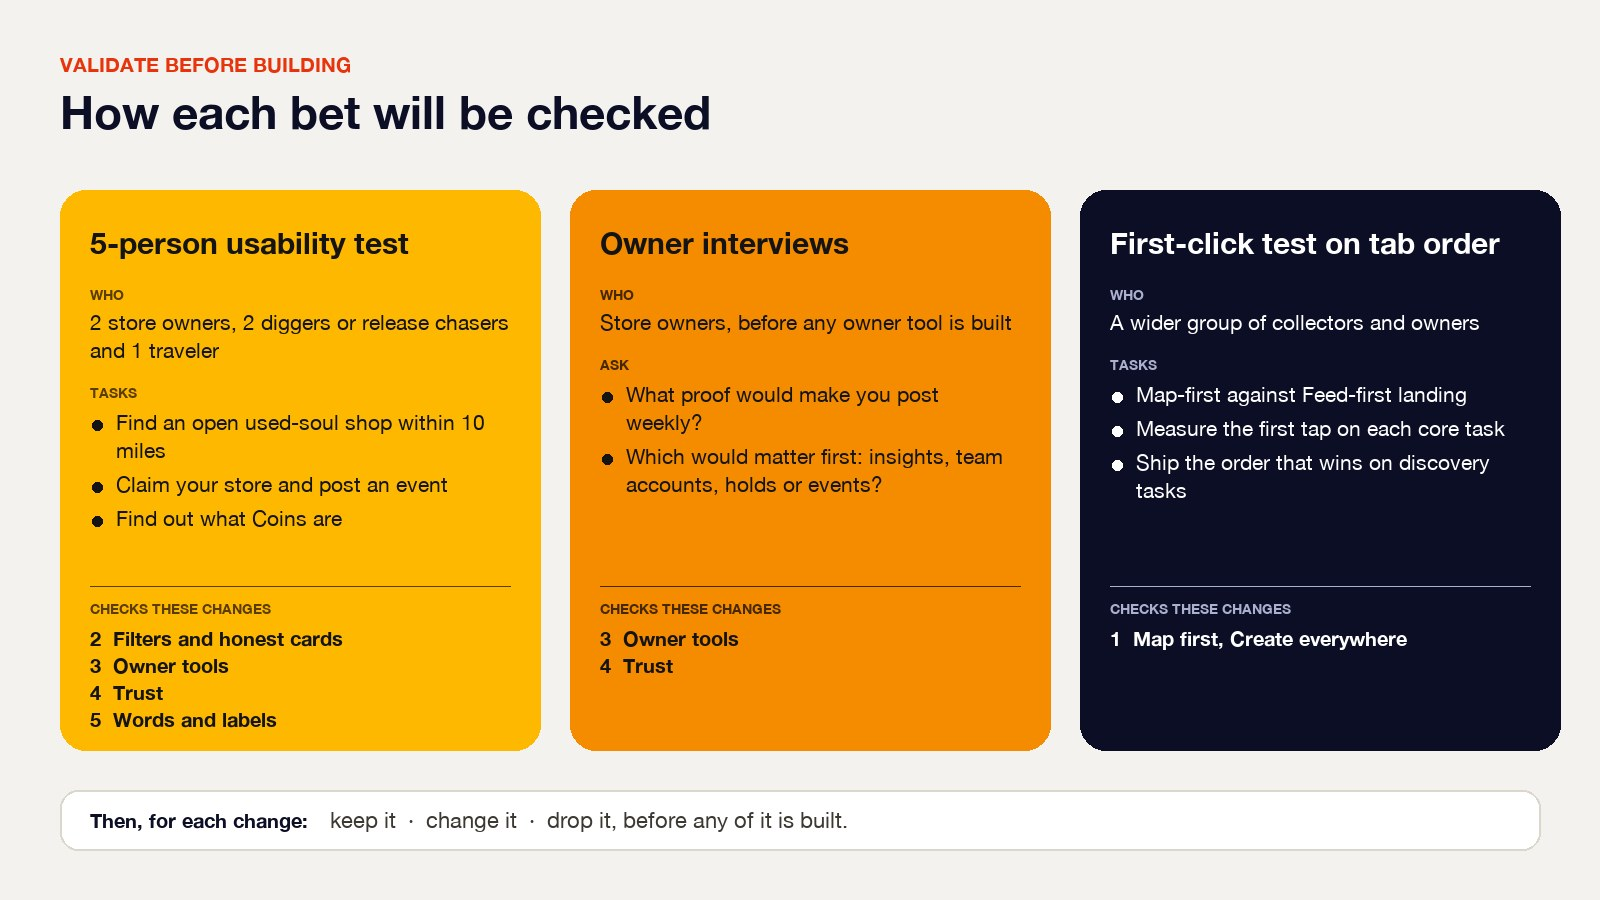
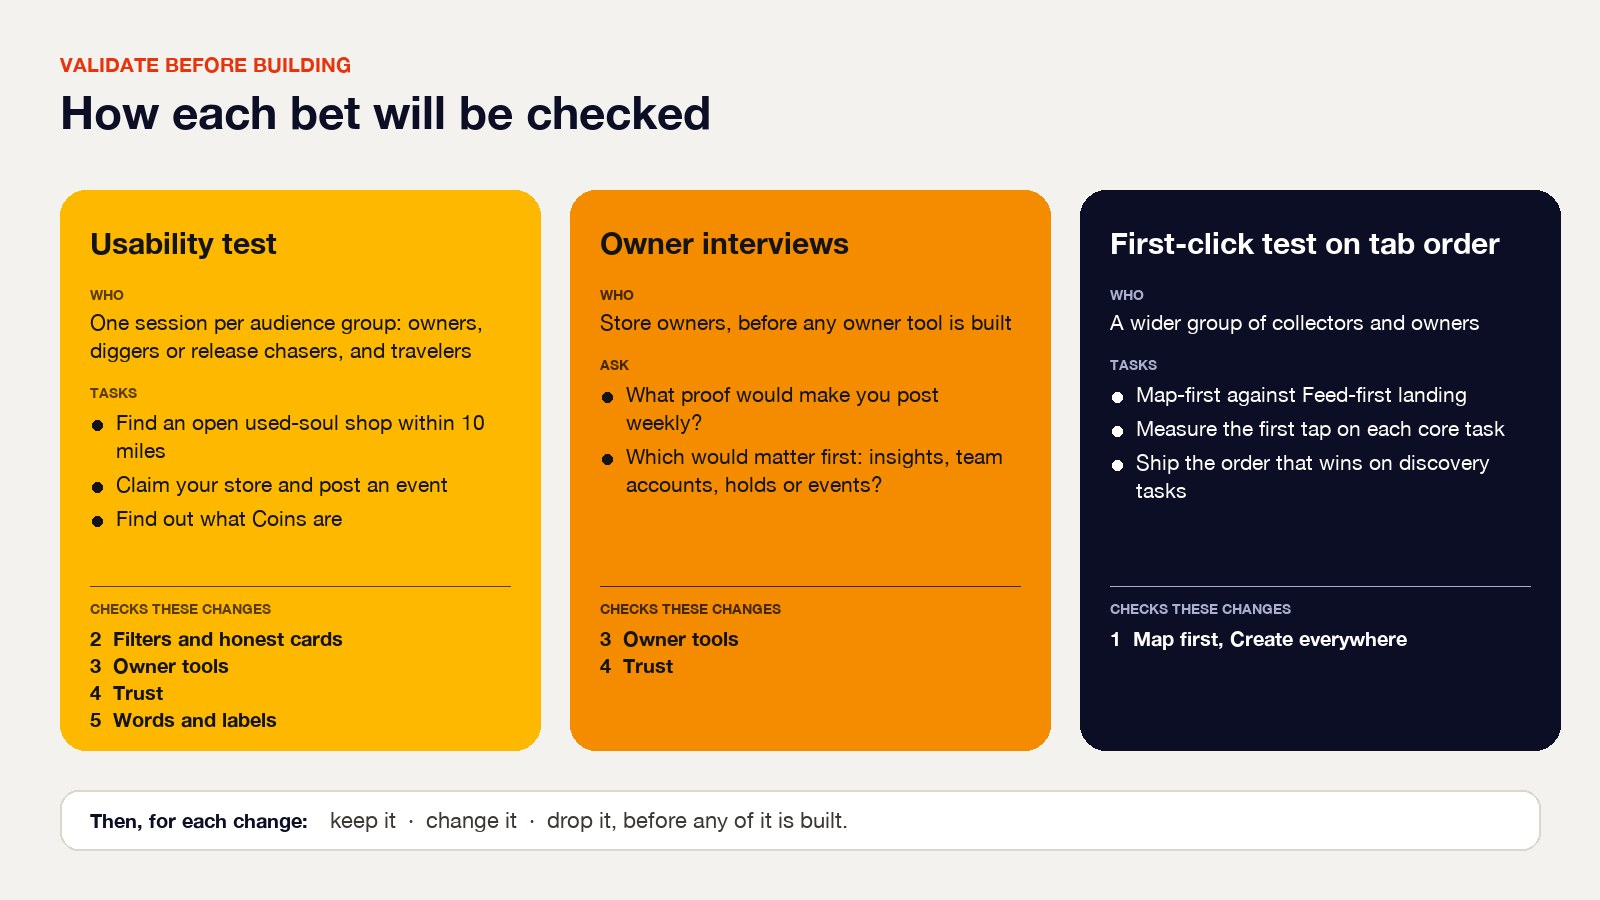
VinylMapper: refer to audience groups instead of individual people

Changed region(s): [[0.0625, 0.3422, 0.3125, 0.4044], [0.0625, 0.2489, 0.25, 0.3111]]

diff --git a/js/projects-data.js b/js/projects-data.js
@@ -628,28 +628,28 @@ const PROJECTS = [
     "tools": [
       "Figma"
     ],
-    "excerpt": "A redesign of a social app for record collectors, driven by five interviews that turned five verdicts into a ranked list of changes.",
+    "excerpt": "A redesign of a social app for record collectors, driven by research with five audience groups that turned five verdicts into a ranked list of changes.",
     "showcase": "assets/images/vinylmapper_case_cover.png?v=2",
     "cover": "assets/images/vinylmapper-header.jpg?v=2",
     "gallery": [],
     "caseStudy": {
-      "outcome": "Turning five interviews into a clearer, more useful VinylMapper.",
+      "outcome": "Turning feedback from five audience groups into a clearer, more useful VinylMapper.",
       "summary": {
-        "problem": "VinylMapper is a social app where record collectors find stores, follow them, review them and share what they find. Its prototype looked good, but it had not picked a main job. I interviewed five people on the original design, ranked the findings and redesigned the navigation and the product around them.",
+        "problem": "VinylMapper is a social app where record collectors find stores, follow them, review them and share what they find. Its prototype looked good, but it had not picked a main job. I researched five audience groups on the original design, ranked the findings and redesigned the navigation and the product around them.",
         "role": "UX/UI designer",
-        "scope": "Interviews, navigation, interface and prioritised changes · 2025–2026",
+        "scope": "Group research, navigation, interface and prioritised changes · 2025–2026",
         "team": "Agency product team",
         "duration": "2025–2026",
         "result": {
           "value": "2 No · 2 Maybe · 1 Yes",
-          "label": "the five interviewees’ verdicts on the original, and the brief for what changed"
+          "label": "the five groups’ verdicts on the original, and the brief for what changed"
         }
       },
       "problem": {
         "heading": "A good-looking app that had not picked a main job",
         "text": [
           "VinylMapper lets collectors find record stores on a map, follow them, review them, check in and share what they find, and lets store owners claim and manage their listing. The first version had well over a hundred screens and states, and a navigation that had grown screen by screen: five equal tabs, three icon-only tab sets and a More menu with eleven tiles.",
-          "To see how it held up, I interviewed five people from its audiences while they walked through the original prototype: two store owners, a crate digger, a traveling collector and a release chaser. Only one of the five would have used it as it was. The others said Maybe or No, for reasons that pointed to the same few problems.",
+          "To see how it held up, I researched five audience groups on the original prototype: veteran store owners, newer store owners, crate diggers, traveling collectors and release chasers, each represented by one interview. Only one of the five groups would have used it as it was. The others said Maybe or No, for reasons that pointed to the same few problems.",
           "The goal became to act on those problems in order of impact: pick a front door, use the data the app already collects, give owners a reason to stay, earn their trust and stop making people learn the app by tapping."
         ],
         "image": {
@@ -661,12 +661,12 @@ const PROJECTS = [
         "text": "I worked on this at the agency that builds VinylMapper. I ran the research round, turned it into a ranked list of changes and redesigned the product around it, from the navigation to the owner tools.",
         "scope": [
           {
-            "label": "Interviews",
-            "text": "Five people, covering owners and collectors, each walked through the original prototype."
+            "label": "Group research",
+            "text": "Five audience groups, covering owners and collectors, each represented by one interview on the original prototype."
           },
           {
             "label": "Findings and priorities",
-            "text": "Seven findings, each traced to who raised it and ranked from P0 to P2."
+            "text": "Seven findings, each traced to the group that raised it and ranked from P0 to P2."
           },
           {
             "label": "Navigation",
@@ -682,16 +682,16 @@ const PROJECTS = [
           },
           {
             "label": "Validation plan",
-            "text": "A 5-user usability test, owner interviews and a first-click test, planned before building."
+            "text": "A usability test across the five groups, owner interviews and a first-click test, planned before building."
           }
         ]
       },
       "decisions": {
-        "heading": "Six changes, each traced to what people said",
+        "heading": "Six changes, each traced to what the groups said",
         "items": [
           {
             "title": "Make the map the front door, and keep Create one tap away",
-            "why": "The collectors came for Find and the owners came to post. Meanwhile the most useful content, guides, collectables and claiming a store, sat in More. The bar is now Map, Feed, Create, Messages and Profile: the map opens after login, Create works from any screen, city guides appear on the map for whatever city you browse, and More is gone, replaced by Settings behind the profile gear.",
+            "why": "Collector groups came for Find and owner groups came to post. Meanwhile the most useful content, guides, collectables and claiming a store, sat in More. The bar is now Map, Feed, Create, Messages and Profile: the map opens after login, Create works from any screen, city guides appear on the map for whatever city you browse, and More is gone, replaced by Settings behind the profile gear.",
             "chosen": "b",
             "a": {
               "label": "Social Home as the front door",
@@ -705,7 +705,7 @@ const PROJECTS = [
           },
           {
             "title": "Turn the data we already collect into filters",
-            "why": "Stores already fill in genres, formats, buy, sell or trade and a used-to-new mix, but Find only offered a name and a distance. The crate digger’s first reaction was that every store on the map was rated 5.0, which told nothing about which shop was worth the drive. Find now filters by open now, genre, format, buy-sell-trade and used or new, sorts by distance, rating, Selection or Price, and shows every rating with its review count, so 5.0 (2) reads honestly.",
+            "why": "Stores already fill in genres, formats, buy, sell or trade and a used-to-new mix, but Find only offered a name and a distance. Crate diggers’ first reaction was that every store on the map was rated 5.0, which told them nothing about which shop was worth the drive. Find now filters by open now, genre, format, buy-sell-trade and used or new, sorts by distance, rating, Selection or Price, and shows every rating with its review count, so 5.0 (2) reads honestly.",
             "chosen": "b",
             "a": {
               "label": "A name search and a distance",
@@ -719,7 +719,7 @@ const PROJECTS = [
           },
           {
             "title": "Give owners control, proof and tools",
-            "why": "The veteran owner could not reply to a review, saw no numbers on what the app did for the shop and could not even find Store Manager, hidden behind a small icon in the top bar. The newer shop had no events, no way to hold a record and no team access. Owners now switch stores from the top of Profile, see views, followers, direction and call taps and check-ins, invite a team with roles, post New arrivals, Events and Announcements, and reply publicly to reviews.",
+            "why": "Veteran owners could not reply to a review, saw no numbers on what the app did for the shop and could not even find Store Manager, hidden behind a small icon in the top bar. Newer shops had no events, no way to hold a record and no team access. Owners now switch stores from the top of Profile, see views, followers, direction and call taps and check-ins, invite a team with roles, post New arrivals, Events and Announcements, and reply publicly to reviews.",
             "chosen": "b",
             "a": {
               "label": "Edit Store and Store Profile",
@@ -727,13 +727,13 @@ const PROJECTS = [
             },
             "b": {
               "label": "A switcher, insights and a team",
-              "note": "Control and proof for the people who feed the app.",
+              "note": "Control and proof for the stores that feed the app.",
               "image": "assets/images/vk-decision3.jpg"
             }
           },
           {
             "title": "Earn trust before asking for it",
-            "why": "The veteran owner read a prefilled unclaimed page with a “spread the word” banner as Yelp’s playbook, and wanted to know who owns the platform that ranks the shop. The claim screen now says who runs the app and links to how ratings work, the unclaimed line speaks to owners in a neutral tone, only people who checked in can review, and collectables reward quality, such as a review with a photo, instead of review count.",
+            "why": "Veteran owners read a prefilled unclaimed page with a “spread the word” banner as Yelp’s playbook, and wanted to know who owns the platform that ranks the shop. The claim screen now says who runs the app and links to how ratings work, the unclaimed line speaks to owners in a neutral tone, only visitors who checked in can review, and collectables reward quality, such as a review with a photo, instead of review count.",
             "chosen": "b",
             "a": {
               "label": "A banner aimed at customers",
@@ -747,7 +747,7 @@ const PROJECTS = [
           },
           {
             "title": "Say it in vinyl, and say what things are",
-            "why": "A repress is a real reissue in vinyl, so “Repress this post” confused the crate digger: it is now Share, with the notification copy to match. The traveling collector tapped through six unlabeled tabs to learn which one was Vault and which was Discogs, and asked what the 6,280 coins were for. Tabs are now labelled and Discogs stays hidden until connected, Coins has an explainer sheet, and distances follow the locale.",
+            "why": "A repress is a real reissue in vinyl, so “Repress this post” confused crate diggers: it is now Share, with the notification copy to match. Traveling collectors tapped through six unlabeled tabs to learn which one was Vault and which was Discogs, and asked what the 6,280 coins were for. Tabs are now labelled and Discogs stays hidden until connected, Coins has an explainer sheet, and distances follow the locale.",
             "chosen": "b",
             "a": {
               "label": "Icons without labels, unexplained terms",
@@ -761,7 +761,7 @@ const PROJECTS = [
           },
           {
             "title": "Make Discogs and records useful",
-            "why": "For the release chaser, Discogs was decoration: the app displayed a collection he already keeps elsewhere, and the wantlist was used nowhere. The map now highlights stores that match his wantlist, search finds records across store posts, a releases layer shows Record Store Day and new pressings, and favorite artists fill in from Discogs. Group chats grow from 4 to 12 people for record clubs.",
+            "why": "For release chasers, Discogs was decoration: the app displayed a collection they already keep elsewhere, and the wantlist was used nowhere. The map now highlights stores that match the wantlist, search finds records across store posts, a releases layer shows Record Store Day and new pressings, and favorite artists fill in from Discogs. Group chats grow from 4 to 12 members for record clubs.",
             "chosen": "b",
             "a": {
               "label": "A Discogs grid you already have",
@@ -779,16 +779,16 @@ const PROJECTS = [
         "heading": "From verdicts to a ranked set of changes",
         "items": [
           {
-            "caption": "1. Five interviews, one list of findings",
-            "problem": "The prototype looked good, but nobody had checked whether it worked for the people it was for.",
-            "solution": "Interview five people as they walk it, then trace every finding to who raised it and rank it.",
-            "text": "I interviewed five people from the app’s audiences: the owner of a veteran shop, the owner of a newer shop with a bar, a crate digger and DJ, a collector who travels, and a release chaser with a collection on Discogs. Each one walked through the original prototype and gave a verdict. Seven findings came out of it, from having no main job to small details like mixed units. I ranked them from P0 to P2, and every change in the redesign points back to one of them.",
+            "caption": "1. Five audience groups, one list of findings",
+            "problem": "The prototype looked good, but nobody had checked whether it worked for the groups it was for.",
+            "solution": "Research five audience groups on the prototype, then trace every finding to the group that raised it and rank it.",
+            "text": "I researched five audience groups: veteran store owners, newer store owners with a bar, crate diggers and DJs, collectors who travel, and release chasers with a collection on Discogs. Each group was represented by one interview on the original prototype and gave a verdict. Seven findings came out of it, from having no main job to small details like mixed units. I ranked them from P0 to P2, and every change in the redesign points back to one of them.",
             "images": [
               {
-                "src": "assets/images/vk-panel.jpg?v=3"
+                "src": "assets/images/vk-panel.jpg?v=4"
               },
               {
-                "src": "assets/images/vk-findings.jpg?v=2"
+                "src": "assets/images/vk-findings.jpg?v=3"
               }
             ]
           },
@@ -830,7 +830,7 @@ const PROJECTS = [
             "caption": "4. P2: records, community and first run",
             "problem": "The app was about places, not records, and the network and the first run did not fit either audience.",
             "solution": "A records layer from Discogs, one relationship model and a first run for collectors and owners.",
-            "text": "Wantlist matches turn the map’s pins gold, search finds records in store posts and a releases layer shows Record Store Day and new pressings, with a Hold for me button on New arrivals. Follow becomes the default relationship for collectors and stores, with the basics public and the collection private. Group chats grow to 12 people with a Record Club, and the map has a Spanish version with kilometres. The first run is one welcome you can skip to browse the map, a short setup for collectors and a checklist for owners that ends in their first post.",
+            "text": "Wantlist matches turn the map’s pins gold, search finds records in store posts and a releases layer shows Record Store Day and new pressings, with a Hold for me button on New arrivals. Follow becomes the default relationship for collectors and stores, with the basics public and the collection private. Group chats grow to 12 members with a Record Club, and the map has a Spanish version with kilometres. The first run is one welcome you can skip to browse the map, a short setup for collectors and a checklist for owners that ends in their first post.",
             "images": [
               {
                 "src": "assets/images/vk-s-records.jpg"
@@ -845,12 +845,12 @@ const PROJECTS = [
           },
           {
             "caption": "5. Validate before building",
-            "problem": "These changes rest on five interviews, a small sample, so they need a wider check before they are built.",
-            "solution": "Plan a 5-user usability test, owner interviews and a first-click test on tab order.",
-            "text": "The redesign is a set of bets, and I wrote down how to check them. A usability test with five people, two store owners, two diggers or release chasers and one traveler, on tasks like finding an open used-soul shop within 10 miles, claiming a store and posting an event. Owner interviews before any owner tool is built, asking what proof would make them post weekly. And a first-click test comparing a Map-first with a Feed-first landing, to ship the order that wins on discovery tasks.",
+            "problem": "These changes rest on five groups, each represented by one interview, so they need a wider check before they are built.",
+            "solution": "Plan a usability test across the five groups, owner interviews and a first-click test on tab order.",
+            "text": "The redesign is a set of bets, and I wrote down how to check them. A usability test across the five groups, covering owners, diggers or release chasers and travelers, on tasks like finding an open used-soul shop within 10 miles, claiming a store and posting an event. Owner interviews before any owner tool is built, asking what proof would make them post weekly. And a first-click test comparing a Map-first with a Feed-first landing, to ship the order that wins on discovery tasks.",
             "images": [
               {
-                "src": "assets/images/vk-validation.jpg?v=3"
+                "src": "assets/images/vk-validation.jpg?v=4"
               }
             ]
           }
@@ -861,7 +861,7 @@ const PROJECTS = [
         "items": [
           {
             "value": "7 findings",
-            "label": "Ranked from P0 to P2 and traced to the person who raised each one."
+            "label": "Ranked from P0 to P2 and traced to the group that raised each one."
           },
           {
             "value": "40 screens",
@@ -869,10 +869,10 @@ const PROJECTS = [
           },
           {
             "value": "3 tests",
-            "label": "Planned before building: a 5-user usability test, owner interviews and a first-click test on tab order."
+            "label": "Planned before building: a usability test across the five groups, owner interviews and a first-click test on tab order."
           }
         ],
-        "note": "Five interviews are a small, qualitative sample, so the verdicts and findings are directional until the validation plan is run."
+        "note": "Each of the five groups was represented by one interview, a small qualitative sample, so the verdicts and findings are directional until the validation plan is run."
       },
       "learnings": {
         "heading": "Pick a front door, then earn the rest",

diff --git a/index.html b/index.html
@@ -14,10 +14,10 @@
 <link rel="preconnect" href="https://fonts.gstatic.com" crossorigin>
 <link href="https://fonts.googleapis.com/css2?family=Inter:wght@400;500;600;700;800&display=swap" rel="stylesheet">
 
-<link rel="stylesheet" href="css/style.css?v=20261168">
-<link rel="stylesheet" href="css/home.css?v=20261168">
-<link rel="stylesheet" href="css/hero-lab.css?v=20261168">
-<script src="js/page-wipe.js?v=20261168"></script>
+<link rel="stylesheet" href="css/style.css?v=20261169">
+<link rel="stylesheet" href="css/home.css?v=20261169">
+<link rel="stylesheet" href="css/hero-lab.css?v=20261169">
+<script src="js/page-wipe.js?v=20261169"></script>
 </head>
 <body data-page="work">
 
@@ -133,15 +133,15 @@
 <!-- InertiaPlugin was only used by the dot-grid background below; re-enable
      it alongside the dot-grid script tag if that background comes back. -->
 <!-- <script src="https://cdn.jsdelivr.net/npm/gsap@3.13.0/dist/InertiaPlugin.min.js"></script> -->
-<script src="js/main.js?v=20261168"></script>
-<script src="js/cursor.js?v=20261168"></script>
-<!-- <script src="js/dot-grid.js?v=20261168"></script> -->
-<script src="js/cursor-trail.js?v=20261168"></script>
-<script src="js/text-type.js?v=20261168"></script>
-<script src="js/accordion-gallery.js?v=20261168"></script>
-<script src="js/projects-data.js?v=20261168"></script>
-<script src="js/home.js?v=20261168"></script>
-<script src="js/tech-text.js?v=20261168"></script>
-<script src="js/hero-lab.js?v=20261168"></script>
+<script src="js/main.js?v=20261169"></script>
+<script src="js/cursor.js?v=20261169"></script>
+<!-- <script src="js/dot-grid.js?v=20261169"></script> -->
+<script src="js/cursor-trail.js?v=20261169"></script>
+<script src="js/text-type.js?v=20261169"></script>
+<script src="js/accordion-gallery.js?v=20261169"></script>
+<script src="js/projects-data.js?v=20261169"></script>
+<script src="js/home.js?v=20261169"></script>
+<script src="js/tech-text.js?v=20261169"></script>
+<script src="js/hero-lab.js?v=20261169"></script>
 </body>
 </html>

diff --git a/project.html b/project.html
@@ -14,9 +14,9 @@
 <link rel="preconnect" href="https://fonts.gstatic.com" crossorigin>
 <link href="https://fonts.googleapis.com/css2?family=Inter:wght@400;500;600;700;800&display=swap" rel="stylesheet">
 
-<link rel="stylesheet" href="css/style.css?v=20261168">
-<link rel="stylesheet" href="css/project.css?v=20261168">
-<script src="js/page-wipe.js?v=20261168"></script>
+<link rel="stylesheet" href="css/style.css?v=20261169">
+<link rel="stylesheet" href="css/project.css?v=20261169">
+<script src="js/page-wipe.js?v=20261169"></script>
 </head>
 <body>
 
@@ -70,9 +70,9 @@
   </div>
 </footer>
 
-<script src="js/main.js?v=20261168"></script>
-<script src="js/cursor.js?v=20261168"></script>
-<script src="js/projects-data.js?v=20261168"></script>
-<script src="js/project-page.js?v=20261168"></script>
+<script src="js/main.js?v=20261169"></script>
+<script src="js/cursor.js?v=20261169"></script>
+<script src="js/projects-data.js?v=20261169"></script>
+<script src="js/project-page.js?v=20261169"></script>
 </body>
 </html>

diff --git a/hero-lab.html b/hero-lab.html
@@ -15,8 +15,8 @@
 <link rel="preconnect" href="https://fonts.gstatic.com" crossorigin>
 <link href="https://fonts.googleapis.com/css2?family=Inter:wght@400;500;600;700;800&display=swap" rel="stylesheet">
 
-<link rel="stylesheet" href="css/style.css?v=20261168">
-<link rel="stylesheet" href="css/hero-lab.css?v=20261168">
+<link rel="stylesheet" href="css/style.css?v=20261169">
+<link rel="stylesheet" href="css/hero-lab.css?v=20261169">
 </head>
 <body data-page="lab">
 
@@ -71,9 +71,9 @@
   </section>
 </main>
 
-<script src="js/main.js?v=20261168"></script>
-<script src="js/cursor.js?v=20261168"></script>
-<script src="js/tech-text.js?v=20261168"></script>
-<script src="js/hero-lab.js?v=20261168"></script>
+<script src="js/main.js?v=20261169"></script>
+<script src="js/cursor.js?v=20261169"></script>
+<script src="js/tech-text.js?v=20261169"></script>
+<script src="js/hero-lab.js?v=20261169"></script>
 </body>
 </html>

diff --git a/about.html b/about.html
@@ -14,9 +14,9 @@
 <link rel="preconnect" href="https://fonts.gstatic.com" crossorigin>
 <link href="https://fonts.googleapis.com/css2?family=Inter:wght@400;500;600;700;800&display=swap" rel="stylesheet">
 
-<link rel="stylesheet" href="css/style.css?v=20261168">
-<link rel="stylesheet" href="css/about.css?v=20261168">
-<script src="js/page-wipe.js?v=20261168"></script>
+<link rel="stylesheet" href="css/style.css?v=20261169">
+<link rel="stylesheet" href="css/about.css?v=20261169">
+<script src="js/page-wipe.js?v=20261169"></script>
 </head>
 <body data-page="about">
 
@@ -169,7 +169,7 @@
   </div>
 </footer>
 
-<script src="js/main.js?v=20261168"></script>
-<script src="js/cursor.js?v=20261168"></script>
+<script src="js/main.js?v=20261169"></script>
+<script src="js/cursor.js?v=20261169"></script>
 </body>
 </html>
